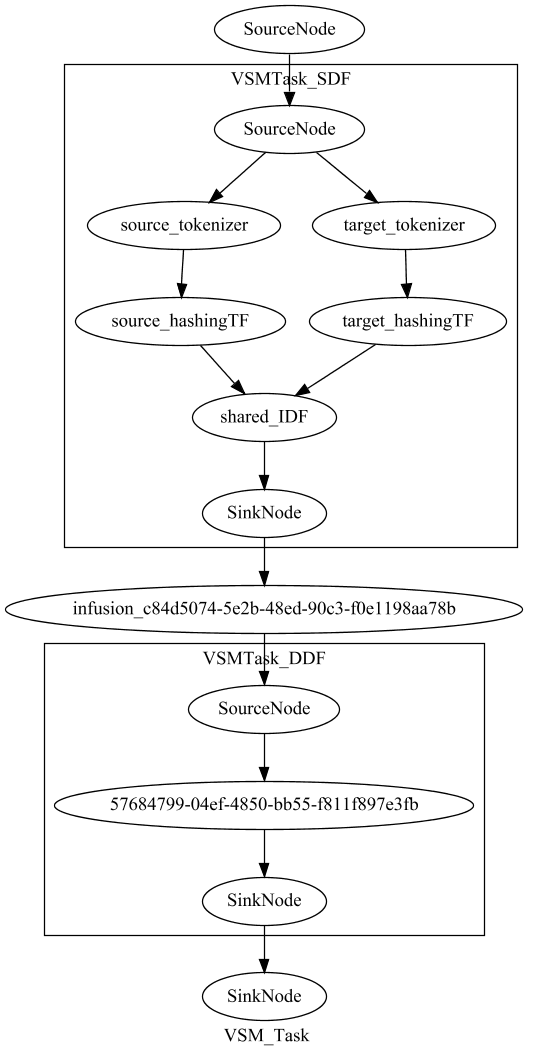
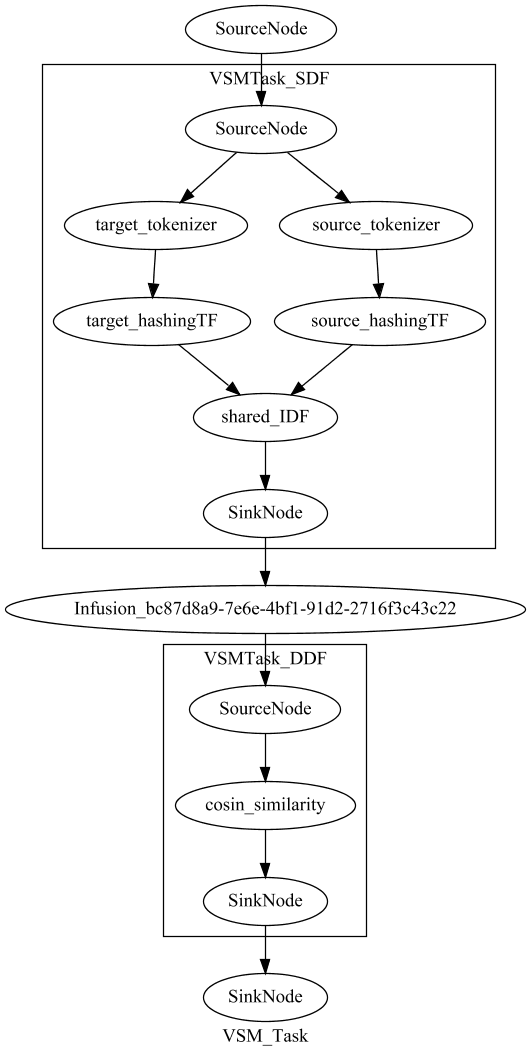
backup for removing the SDFgraph

diff --git a/src/test/java/SparkJobTest.java b/src/test/java/SparkJobTest.java
@@ -1,3 +1,4 @@
+import buildingBlocks.traceTasks.VSMTraceBuilder;
 import core.SparkTraceTask;
 import core.graphPipeline.SDF.SDFGraph;
 import core.graphPipeline.basic.SGraph;
@@ -62,76 +63,18 @@ public class SparkJobTest extends TestBase {
 
     @Test
     public void singleSparkTaskTest() throws Exception {
-        SparkTraceTask vsmTask = VSMTask.getSTT(sparkSession);
+        SparkTraceTask vsmTask = new VSMTraceBuilder().getTask("s_id","t_id");
         vsmTask.initSTT();
         Map<String, String> vsmTaskInputConfig = getVSMTaskConfig();
         vsmTask.setConfig(vsmTaskInputConfig);
+        vsmTask.initSTT();
+        vsmTask.infuse();
+        vsmTask.optimize(vsmTask);
         vsmTask.showGraph("singleSparkTaskTest");
         vsmTask.train(commits, improvements, null);
         Dataset<Row> result = vsmTask.trace(commits, improvements);
         result.show();
         System.out.print(String.format("Total link num: %s are processed...", result.count()));
-    }
-
-    @Test
-    public void nestedSparkTaskTest() throws Exception {
-
-        //create SDF
-        SDFGraph sdfGraph = new SDFGraph();
-        sdfGraph.setId("nestedTask_SDF");
-        sdfGraph.addInputField("s_t");
-        sdfGraph.addInputField("t_t");
-        sdfGraph.addOutputField("s_tk", SDFGraph.SDFType.SOURCE_SDF);
-        sdfGraph.addOutputField("t_tk", SDFGraph.SDFType.TARGET_SDF);
-
-        Map<String, String> nestTaskConfig = new HashMap<>();
-        nestTaskConfig.put("s_t", "commit_content");
-        nestTaskConfig.put("t_t", "issue_content");
-        nestTaskConfig.put("s_id", "commit_id");
-        nestTaskConfig.put("t_id", "issue_id");
-
-        Tokenizer sTk = new Tokenizer();
-        SNode stkNode = new SNode(new NullRemoverModelSingleIO(sTk), "source_tokenizer");
-        stkNode.addInputField("s_text");
-        stkNode.addOutputField("s_tokens");
-
-        Tokenizer tTk = new Tokenizer();
-        SNode ttkNode = new SNode(new NullRemoverModelSingleIO(tTk), "target_tokenizer");
-        ttkNode.addInputField("t_text");
-        ttkNode.addOutputField("t_tokens");
-
-        sdfGraph.addNode(stkNode);
-        sdfGraph.addNode(ttkNode);
-        sdfGraph.connect(sdfGraph.sourceNode, "s_t", stkNode, "s_text");
-        sdfGraph.connect(sdfGraph.sourceNode, "t_t", ttkNode, "t_text");
-        sdfGraph.connect(stkNode, "s_tokens", sdfGraph.sinkNode, "s_tk");
-        sdfGraph.connect(ttkNode, "t_tokens", sdfGraph.sinkNode, "t_tk");
-
-
-        //create DDF
-        SGraph ddfGraph = new SGraph("nestedTask_DDF");
-        ddfGraph.addInputField("s_tf_idf");
-        ddfGraph.addInputField("t_tf_idf");
-        ddfGraph.addOutputField("tk1");
-        ddfGraph.addOutputField("tk2");
-        ddfGraph.addOutputField("similarity");
-
-//        SparkTraceTask task = VSMTask.getSTT(sparkSession);
-//        task.getSdfGraph().configSDF(getVSMTaskConfig());
-//        ddfGraph.addNode(task);
-        ddfGraph.connect(ddfGraph.sourceNode, "s_tf_idf", ddfGraph.sinkNode, "tk1");
-        ddfGraph.connect(ddfGraph.sourceNode, "t_tf_idf", ddfGraph.sinkNode, "tk2");
-        //ddfGraph.connectSymbol(task, "vsm_cosin_sim_score", ddfGraph, "similarity");
-
-        SparkTraceTask outerTask = new SparkTraceTask(sdfGraph, ddfGraph, "s_id", "t_id");
-        outerTask.connect(sdfGraph, "s_tk", ddfGraph, "s_tf_idf");
-        outerTask.connect(sdfGraph, "t_tk", ddfGraph, "t_tf_idf");
-        outerTask.initSTT();
-        //Map<String, String> vsmTaskInputConfig = getVSMTaskConfig();
-        //outerTask.getSdfGraph().configSDF(vsmTaskInputConfig);
-        outerTask.train(commits, improvements, null);
-        Dataset<Row> result = outerTask.trace(commits, improvements);
-        result.show();
     }
 
     @Test

diff --git a/src/main/java/examples/VSMTask.java b/src/main/java/examples/VSMTask.java
@@ -1,5 +1,6 @@
 package examples;
 
+import buildingBlocks.vecSimilarityPipeline.SparseCosinSimilarityPipeline;
 import core.SparkTraceTask;
 import core.graphPipeline.SDF.SDFGraph;
 import core.graphPipeline.basic.SGraph;
@@ -91,23 +92,8 @@ public class VSMTask {
     }
 
     private static SGraph createDDFGraph() throws Exception {
-        SGraph ddfGraph = new SGraph("VSMTask_DDF");
-        ddfGraph.addInputField("s_tf_idf");
-        ddfGraph.addInputField("t_tf_idf");
-        ddfGraph.addOutputField("vsm_cosin_sim_score");
-
-        SparseVecCosinSimilarityStage cosinSimilarityStage = new SparseVecCosinSimilarityStage();
-        SNode cosinNode = new SNode(cosinSimilarityStage, "cosin_similarity");
-        cosinNode.addInputField("vec1");
-        cosinNode.addInputField("vec2");
-        cosinNode.addOutputField("cosin_score");
-
-        ddfGraph.addNode(cosinNode);
-
-        ddfGraph.connect(ddfGraph.sourceNode, "s_tf_idf", cosinNode, "vec1");
-        ddfGraph.connect(ddfGraph.sourceNode, "t_tf_idf", cosinNode, "vec2");
-        ddfGraph.connect(cosinNode, "cosin_score", ddfGraph.sinkNode, "vsm_cosin_sim_score");
-        return ddfGraph;
+        SGraph ddf = SparseCosinSimilarityPipeline.getGraph("VSM_DDF");//vec1,2 - cosin_sim
+        return ddf;
     }
 
 
@@ -122,10 +108,10 @@ public class VSMTask {
         stt.connect(stt.sourceNode, "s_text", stt.getSdfGraph(), "s_text");
         stt.connect(stt.sourceNode, "t_text", stt.getSdfGraph(), "t_text");
 
-        stt.connect(stt.getSdfGraph(), "s_tf_idf", stt.getDdfGraph(), "s_tf_idf");
-        stt.connect(stt.getSdfGraph(), "t_tf_idf", stt.getDdfGraph(), "t_tf_idf");
+        stt.connect(stt.getSdfGraph(), "s_tf_idf", stt.getDdfGraph(), "vec1");
+        stt.connect(stt.getSdfGraph(), "t_tf_idf", stt.getDdfGraph(), "vec2");
 
-        stt.connect(stt.getDdfGraph(), "vsm_cosin_sim_score", stt.sinkNode, "vsm_score");
+        stt.connect(stt.getDdfGraph(), "cosin_sim", stt.sinkNode, "vsm_score");
         return stt;
     }
 }

diff --git a/src/main/java/buildingBlocks/traceTasks/VSMTraceBuilder.java b/src/main/java/buildingBlocks/traceTasks/VSMTraceBuilder.java
@@ -1,0 +1,51 @@
+package buildingBlocks.traceTasks;
+
+import buildingBlocks.text2TFIDF.Text2TFIDFPipeline;
+import buildingBlocks.vecSimilarityPipeline.SparseCosinSimilarityPipeline;
+import core.SparkTraceTask;
+import core.graphPipeline.SDF.SDFGraph;
+import core.graphPipeline.basic.SGraph;
+
+import java.util.HashMap;
+import java.util.Map;
+
+/**
+ *
+ */
+public class VSMTraceBuilder implements TraceTaskBuilder {
+    @Override
+    public SDFGraph createSDF() throws Exception {
+        SGraph graph = Text2TFIDFPipeline.getGraph("VSM_SDF");//text1,2 = "tf-idf1,2"
+        Map<String, SDFGraph.SDFType> outputTypeMap = new HashMap<>();
+        outputTypeMap.put("tf-idf1", SDFGraph.SDFType.SOURCE_SDF);
+        outputTypeMap.put("tf-idf2", SDFGraph.SDFType.TARGET_SDF);
+        SDFGraph sdfGraph = new SDFGraph(graph, outputTypeMap);
+        return sdfGraph;
+    }
+
+    @Override
+    public SGraph createDDF() throws Exception {
+        return SparseCosinSimilarityPipeline.getGraph("VSM_DDF"); //vec1,2 - cosin_sim
+    }
+
+    @Override
+    public SparkTraceTask connectSDFToDDF(SparkTraceTask task) throws Exception {
+        task.connect(task.sourceNode, "s_text", task.getSdfGraph(), "text1");
+        task.connect(task.sourceNode, "t_text", task.getSdfGraph(), "text2");
+        task.connect(task.getSdfGraph(), "tf-idf1", task.getDdfGraph(), "vec1");
+        task.connect(task.getSdfGraph(), "tf-idf2", task.getDdfGraph(), "vec2");
+        task.connect(task.getDdfGraph(), "cosin_sim", task.sinkNode, "vsm_sim");
+        return task;
+    }
+
+    @Override
+    public SparkTraceTask getTask(String sourceId, String targetId) throws Exception {
+        SparkTraceTask task = new SparkTraceTask(createSDF(), createDDF(), sourceId, targetId);
+        task.setId("VSM");
+        task.addInputField("s_text").addInputField("t_text");
+        task.addOutputField("vsm_sim");
+        connectSDFToDDF(task);
+        return task;
+
+    }
+}

diff --git a/src/main/java/buildingBlocks/vecSimilarityPipeline/SparseCosinSimilarityPipeline.java b/src/main/java/buildingBlocks/vecSimilarityPipeline/SparseCosinSimilarityPipeline.java
@@ -1,0 +1,30 @@
+package buildingBlocks.vecSimilarityPipeline;
+
+import core.graphPipeline.basic.SGraph;
+import core.graphPipeline.basic.SNode;
+import featurePipelineStages.VecSimilarity.SparseVecSimilarity.SparseVecCosinSimilarityStage;
+
+/**
+ * This is a wrapper which contain only one node in a graph.
+ */
+public class SparseCosinSimilarityPipeline {
+    public static SGraph getGraph(String graphName) throws Exception {
+        SGraph ddfGraph = new SGraph(graphName);
+        ddfGraph.addInputField("vec1");
+        ddfGraph.addInputField("vec2");
+        ddfGraph.addOutputField("cosin_sim");
+
+        SparseVecCosinSimilarityStage cosinSimilarityStage = new SparseVecCosinSimilarityStage();
+        SNode cosinNode = new SNode(cosinSimilarityStage, "cosinSimilarity");
+        cosinNode.addInputField("vec1");
+        cosinNode.addInputField("vec2");
+        cosinNode.addOutputField("cosin_sim");
+
+        ddfGraph.addNode(cosinNode);
+
+        ddfGraph.connect(ddfGraph.sourceNode, "vec1", cosinNode, "vec1");
+        ddfGraph.connect(ddfGraph.sourceNode, "vec2", cosinNode, "vec2");
+        ddfGraph.connect(cosinNode, "cosin_sim", ddfGraph.sinkNode, "cosin_sim");
+        return ddfGraph;
+    }
+}

diff --git a/src/main/java/core/graphPipeline/basic/SGraph.java b/src/main/java/core/graphPipeline/basic/SGraph.java
@@ -65,6 +65,15 @@ public class SGraph extends Vertex {
         config = new HashMap<>();
     }
 
+    public SGraph(SGraph sGraph) {
+        super(sGraph);
+        nodes = sGraph.nodes;
+        edges = sGraph.edges;
+        sourceNode = sGraph.sourceNode;
+        sinkNode = sGraph.sinkNode;
+        config = sGraph.config;
+    }
+
     public void setConfig(Map<String, String> symbolValueMap) {
         this.config = symbolValueMap;
         for (String symbolName : this.config.keySet()) {
@@ -242,9 +251,6 @@ public class SGraph extends Vertex {
                         int remainDemand = demandTable.get(sourceCell) - 1;
                         demandTable.put(sourceCell, remainDemand);
                         if (remainDemand == 0 && sourceCell.isRemovable()) {
-                            if (sourceCell.getFieldSymbol().getSymbolValue().equals("s_idf_out")) {
-                                int i = 0;
-                            }
                             SGraphColumnRemovalStage removalStage = new SGraphColumnRemovalStage();
                             removalStage.setInputCols(new String[]{sourceCell.getFieldSymbol().getSymbolValue()});
                             stages.add(removalStage);

diff --git a/src/main/java/featurePipelineStages/InfusionStage/InfusionStage.java b/src/main/java/featurePipelineStages/InfusionStage/InfusionStage.java
@@ -106,7 +106,9 @@ public class InfusionStage extends Transformer implements InfusionStageParam {
     public StructType transformSchema(StructType structType) {
         Set<String> sourceSDFCols = sdfGraph.getSourceSDFOutput();
         Set<String> targetSDFCols = sdfGraph.getTargetSDFOutputs();
-        //TODO mismatch between real schema and return schema
+        //ensure all output field have been assigned with a type
+        assert sourceSDFCols.size() + targetSDFCols.size() == sdfGraph.getOutputTable().getCells().size();
+        //TODO fix the mismatch between real schema and return schema
         return structType;
     }
 

diff --git a/src/main/java/core/graphPipeline/SDF/SDFGraph.java b/src/main/java/core/graphPipeline/SDF/SDFGraph.java
@@ -22,6 +22,16 @@ public class SDFGraph extends SGraph implements SDFInterface {
         outputTypeMap = new HashMap<>();
     }
 
+    public SDFGraph(String id) {
+        super(id);
+        outputTypeMap = new HashMap<>();
+    }
+
+    public SDFGraph(SGraph sGraph, Map<String, SDFType> outputTypeMap) {
+        super(sGraph);
+        this.outputTypeMap = outputTypeMap;
+    }
+
     @Override
     public void removeOutputField(Symbol symbol) {
         super.removeOutputField(symbol);

diff --git a/src/main/java/buildingBlocks/traceTasks/TraceTaskBuilder.java b/src/main/java/buildingBlocks/traceTasks/TraceTaskBuilder.java
@@ -1,0 +1,18 @@
+package buildingBlocks.traceTasks;
+
+import core.SparkTraceTask;
+import core.graphPipeline.SDF.SDFGraph;
+import core.graphPipeline.basic.SGraph;
+
+/**
+ *
+ */
+public interface TraceTaskBuilder {
+    SDFGraph createSDF() throws Exception;
+
+    SGraph createDDF() throws Exception;
+
+    SparkTraceTask connectSDFToDDF(SparkTraceTask traceTask) throws Exception;
+
+    SparkTraceTask getTask(String sourceId, String targetId) throws Exception;
+}

diff --git a/src/main/java/core/graphPipeline/basic/Vertex.java b/src/main/java/core/graphPipeline/basic/Vertex.java
@@ -31,6 +31,14 @@ abstract public class Vertex {
         this.vertexId = vertexId;
     }
 
+    public Vertex(Vertex vertex) {
+        this.vertexId = vertex.vertexId;
+        inputTable = vertex.inputTable;
+        outputTable = vertex.outputTable;
+        context = vertex.context;
+        symbolValues = vertex.symbolValues;
+    }
+
     /**
      * Get vertices which provide in degree to the vertex
      *

diff --git a/src/main/java/buildingBlocks/traceTasks/NGramVSMTraceTask.java b/src/main/java/buildingBlocks/traceTasks/NGramVSMTraceTask.java
@@ -1,0 +1,7 @@
+package buildingBlocks.traceTasks;
+
+/**
+ *
+ */
+public class NGramVSMTraceTask {
+}

diff --git a/src/main/java/buildingBlocks/traceTasks/LDATraceTask.java b/src/main/java/buildingBlocks/traceTasks/LDATraceTask.java
@@ -1,0 +1,7 @@
+package buildingBlocks.traceTasks;
+
+/**
+ *
+ */
+public class LDATraceTask {
+}

diff --git a/src/main/java/buildingBlocks/traceTasks/VSMTraceTask.java b/src/main/java/buildingBlocks/traceTasks/VSMTraceTask.java
@@ -1,0 +1,7 @@
+package buildingBlocks.traceTasks;
+
+/**
+ *
+ */
+public class VSMTraceTask {
+}
